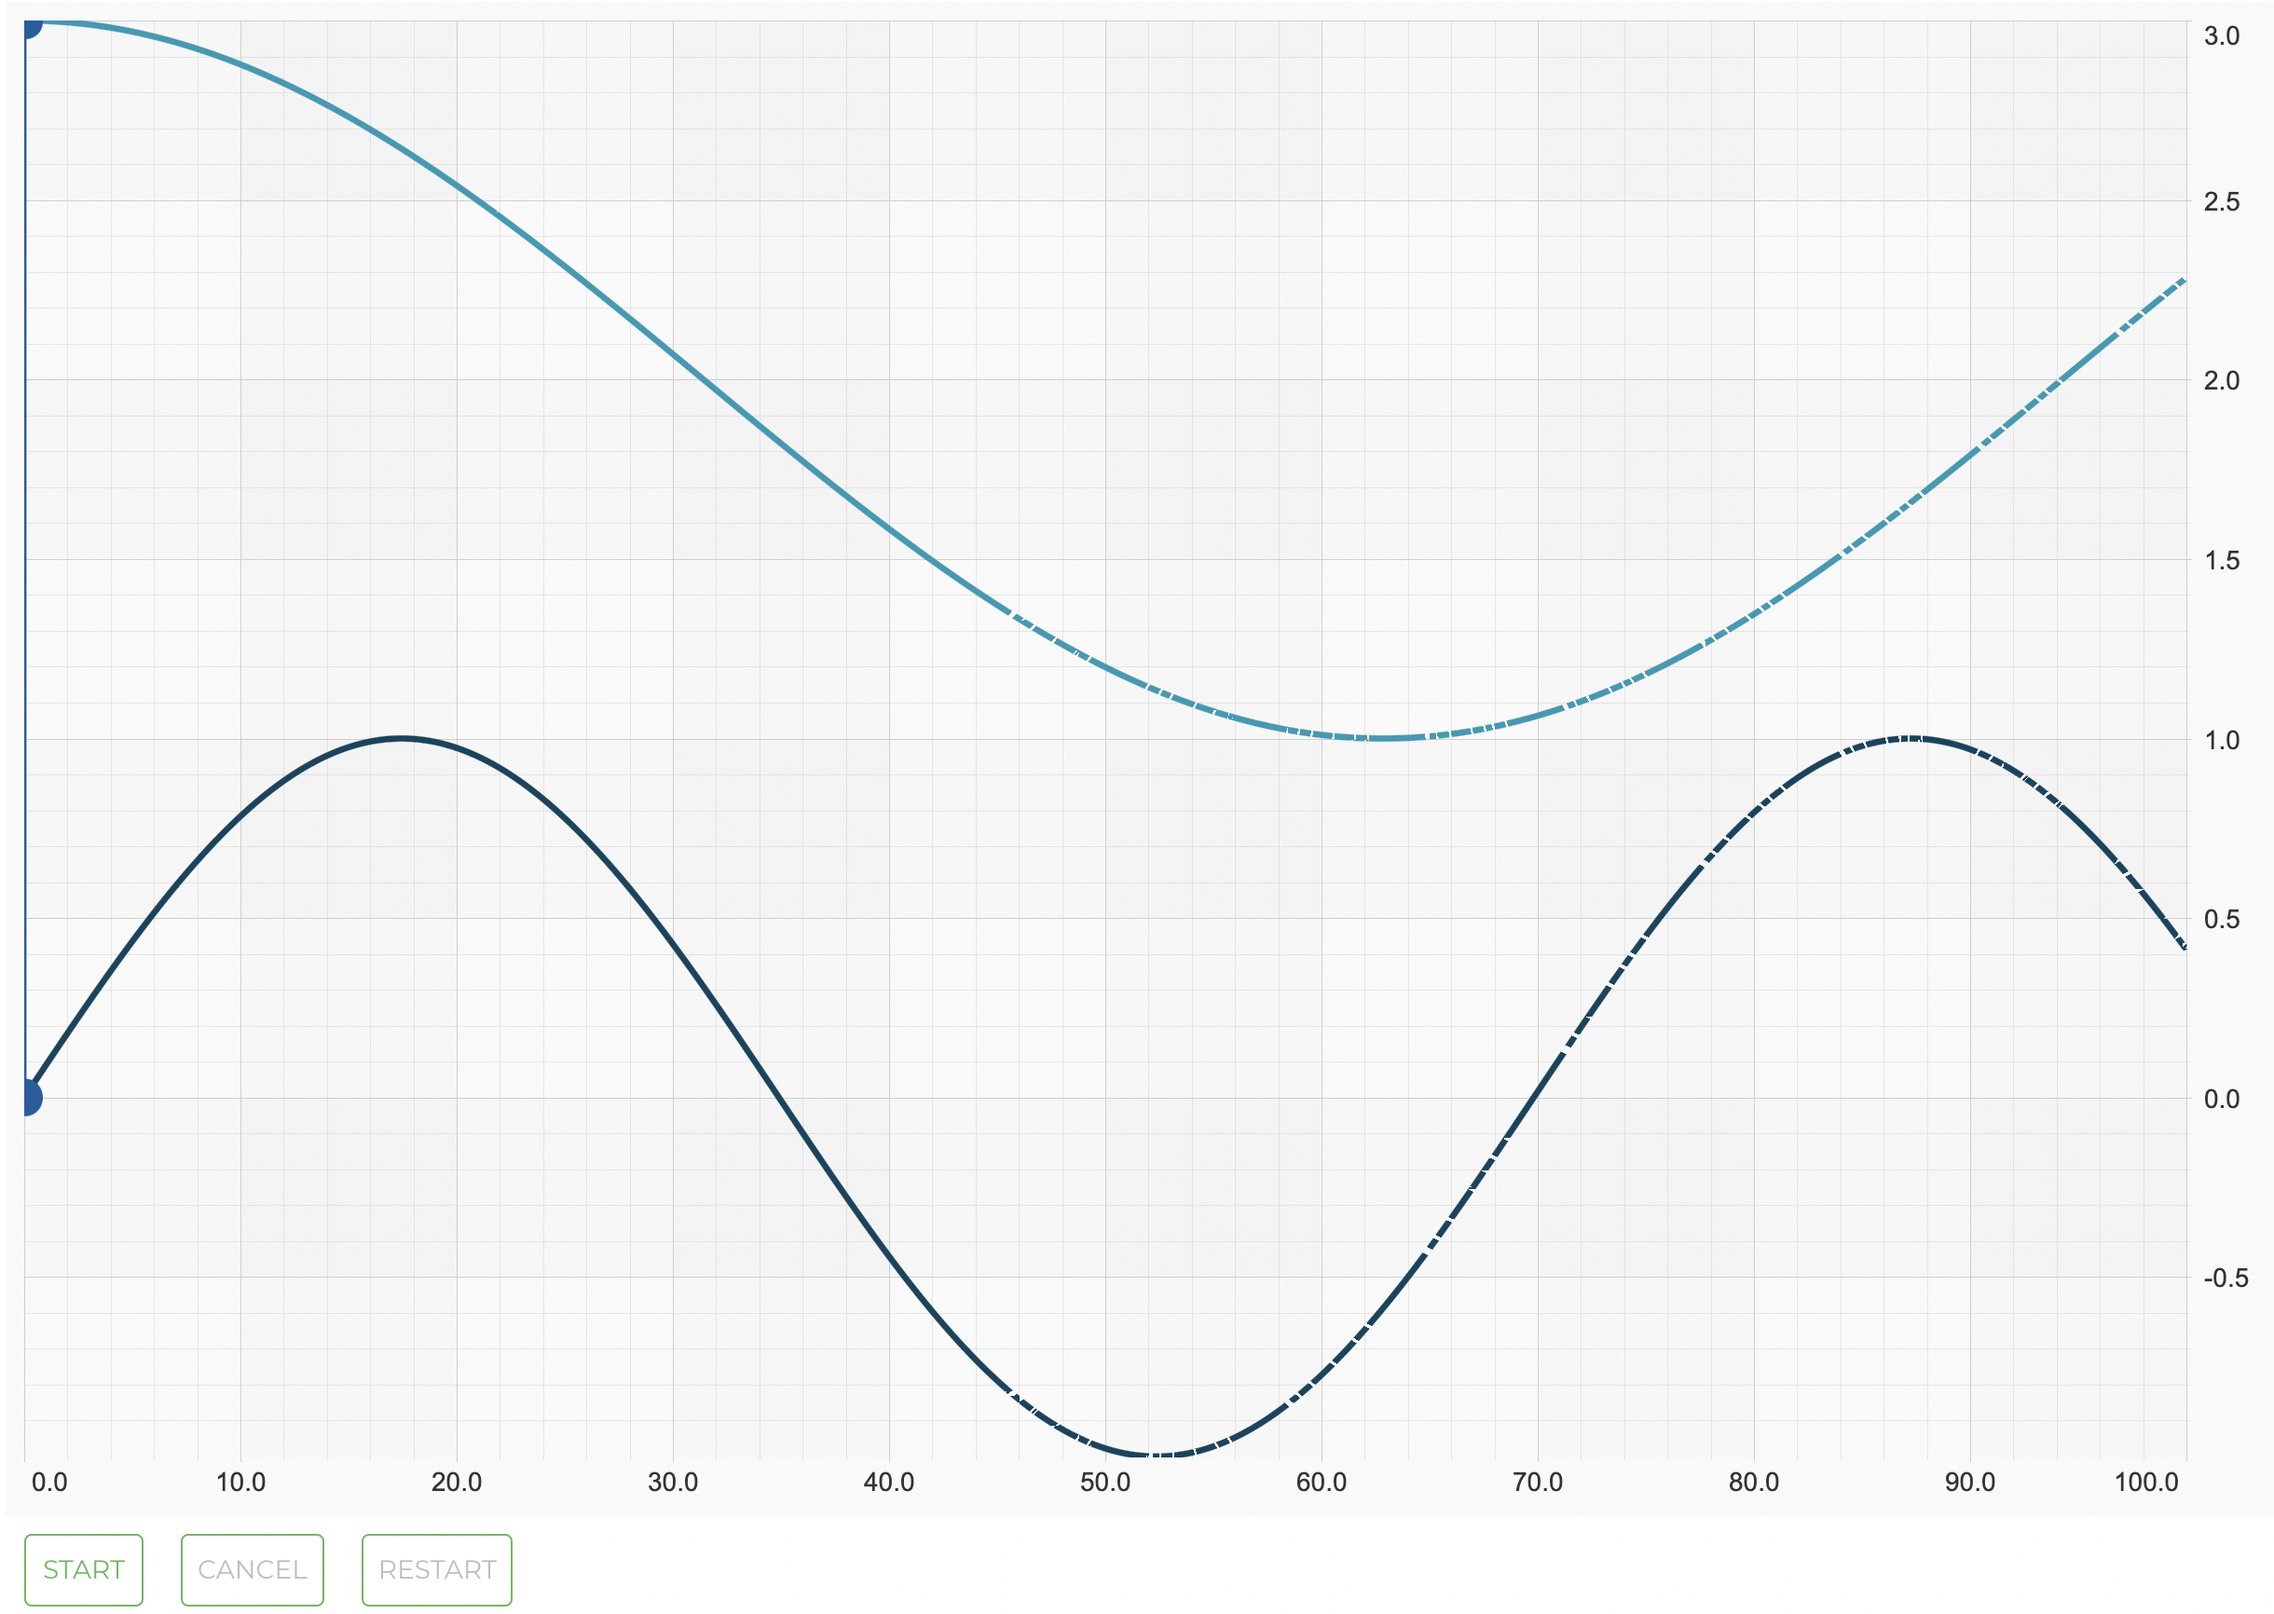
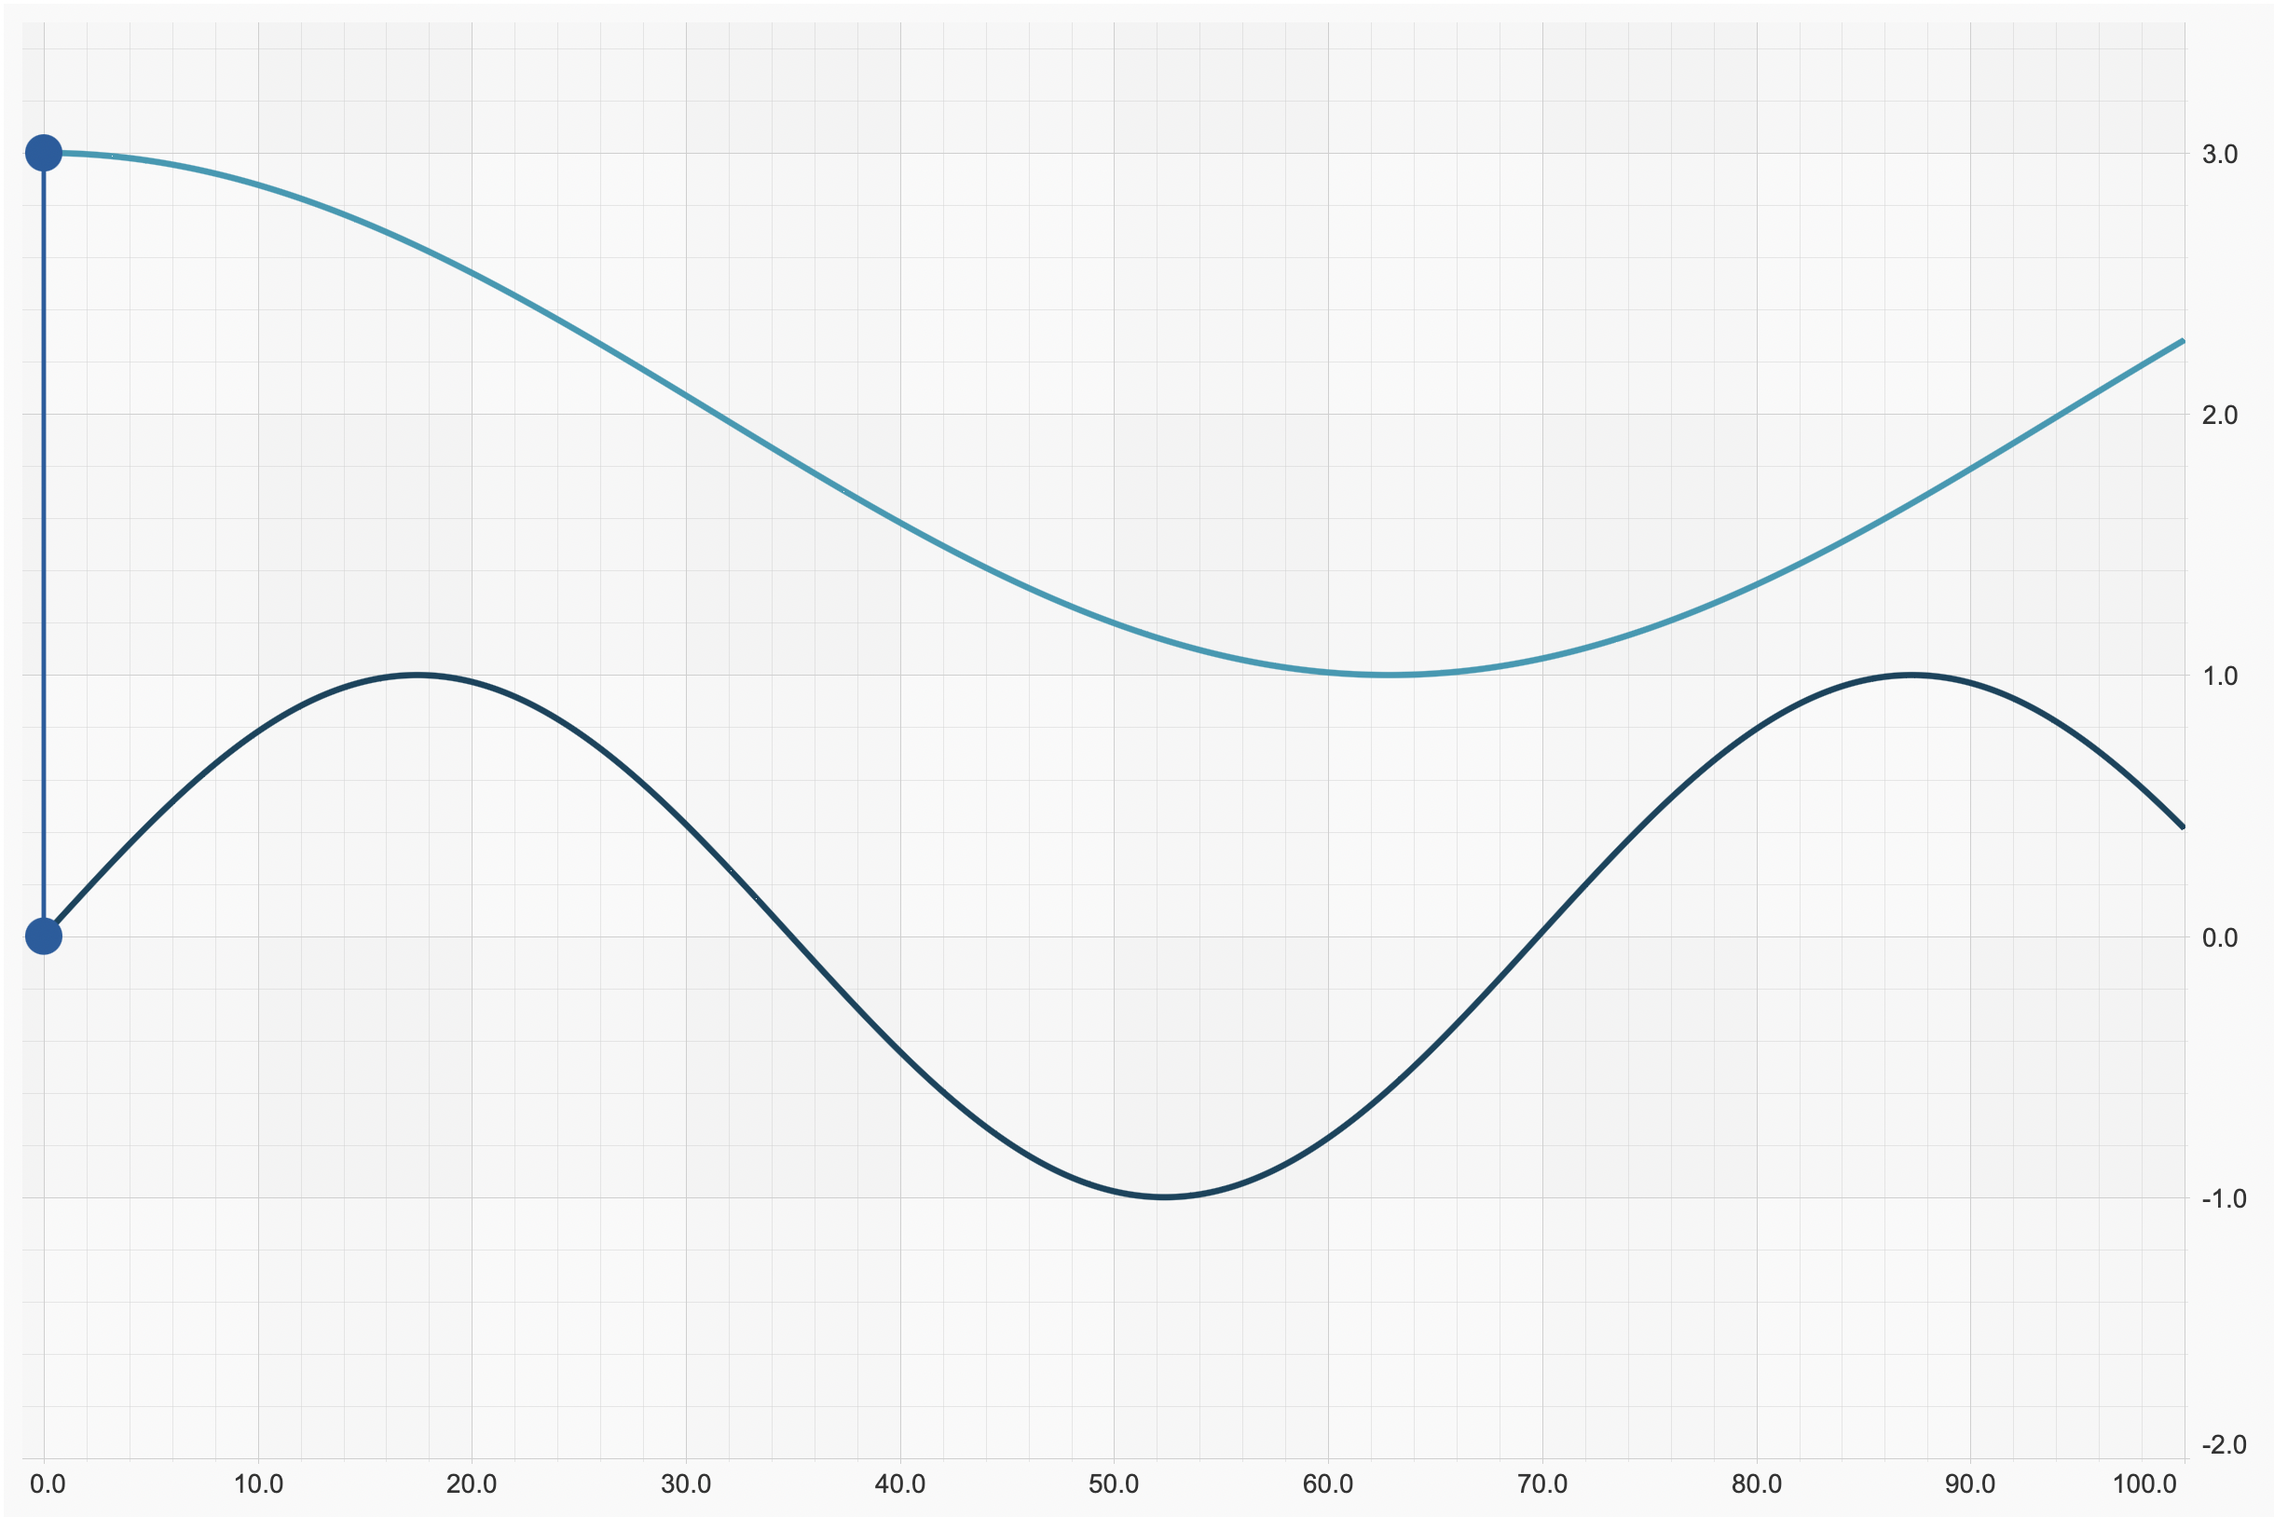
feat(demo): SCJS-990 update thumbnail, add to search, fixes

diff --git a/Examples/src/components/Examples/Charts2D/Animations/GenericAnimation/GENERATED_SRC.ts b/Examples/src/components/Examples/Charts2D/Animations/GenericAnimation/GENERATED_SRC.ts
@@ -1,4 +1,5 @@
-export const code = `import * as React from "react";
+export const code = `
+import * as React from "react";
 import { NumericAxis } from "scichart/Charting/Visuals/Axis/NumericAxis";
 import { SciChartSurface } from "scichart/Charting/Visuals/SciChartSurface";
 import classes from "../../../../Examples/Examples.module.scss";
@@ -12,6 +13,7 @@ import { IAnnotation } from "scichart/Charting/Visuals/Annotations/IAnnotation";
 import { GenericAnimation } from "scichart/Core/Animations/GenericAnimation";
 import { easing } from "scichart/Core/Animations/EasingFunctions";
 import Button from "@material-ui/core/Button/Button";
+import { NumberRange } from "scichart/Core/NumberRange";
 
 const divElementId = "chart";
 
@@ -40,8 +42,8 @@ export const drawExample = async () => {
         theme: new SciChartJSLightTheme()
     });
 
-    sciChartSurface.xAxes.add(new NumericAxis(wasmContext));
-    sciChartSurface.yAxes.add(new NumericAxis(wasmContext));
+    sciChartSurface.xAxes.add(new NumericAxis(wasmContext, { visibleRange: new NumberRange(-1.0, 100.0) }));
+    sciChartSurface.yAxes.add(new NumericAxis(wasmContext, { visibleRange: new NumberRange(-2.0, 3.5) }));
 
     sciChartSurface.renderableSeries.add(
         new FastLineRenderableSeries(wasmContext, {
@@ -72,8 +74,6 @@ export const drawExample = async () => {
         sciChartSurface.addAnimation(animationSinPoint);
         sciChartSurface.addAnimation(animationCosPoint);
     }
-
-    sciChartSurface.zoomExtents();
 
     return { sciChartSurface, animations: { animation, animationSinPoint, animationCosPoint }, startAnimation };
 };

diff --git a/Examples/src/components/Examples/Charts2D/Animations/GenericAnimation/index.tsx b/Examples/src/components/Examples/Charts2D/Animations/GenericAnimation/index.tsx
@@ -12,6 +12,7 @@ import { IAnnotation } from "scichart/Charting/Visuals/Annotations/IAnnotation";
 import { GenericAnimation } from "scichart/Core/Animations/GenericAnimation";
 import { easing } from "scichart/Core/Animations/EasingFunctions";
 import Button from "@material-ui/core/Button/Button";
+import { NumberRange } from "scichart/Core/NumberRange";
 
 const divElementId = "chart";
 
@@ -40,8 +41,8 @@ export const drawExample = async () => {
         theme: new SciChartJSLightTheme()
     });
 
-    sciChartSurface.xAxes.add(new NumericAxis(wasmContext));
-    sciChartSurface.yAxes.add(new NumericAxis(wasmContext));
+    sciChartSurface.xAxes.add(new NumericAxis(wasmContext, { visibleRange: new NumberRange(-1.0, 100.0) }));
+    sciChartSurface.yAxes.add(new NumericAxis(wasmContext, { visibleRange: new NumberRange(-2.0, 3.5) }));
 
     sciChartSurface.renderableSeries.add(
         new FastLineRenderableSeries(wasmContext, {
@@ -72,8 +73,6 @@ export const drawExample = async () => {
         sciChartSurface.addAnimation(animationSinPoint);
         sciChartSurface.addAnimation(animationCosPoint);
     }
-
-    sciChartSurface.zoomExtents();
 
     return { sciChartSurface, animations: { animation, animationSinPoint, animationCosPoint }, startAnimation };
 };

diff --git a/Examples/src/components/Search/searchItems.ts b/Examples/src/components/Search/searchItems.ts
@@ -19,6 +19,10 @@ export const searchItems: TSearchItem[] = [
         link: EXAMPLES_PAGES.chart2D_Animations_StartupAnimation.path
     },
     {
+        title: EXAMPLES_PAGES.chart2D_Animations_GenericAnimation.title,
+        link: EXAMPLES_PAGES.chart2D_Animations_GenericAnimation.path
+    },
+    {
         title: EXAMPLES_PAGES.chart2D_basicCharts_BandSeriesChart.title,
         link: EXAMPLES_PAGES.chart2D_basicCharts_BandSeriesChart.path
     },
